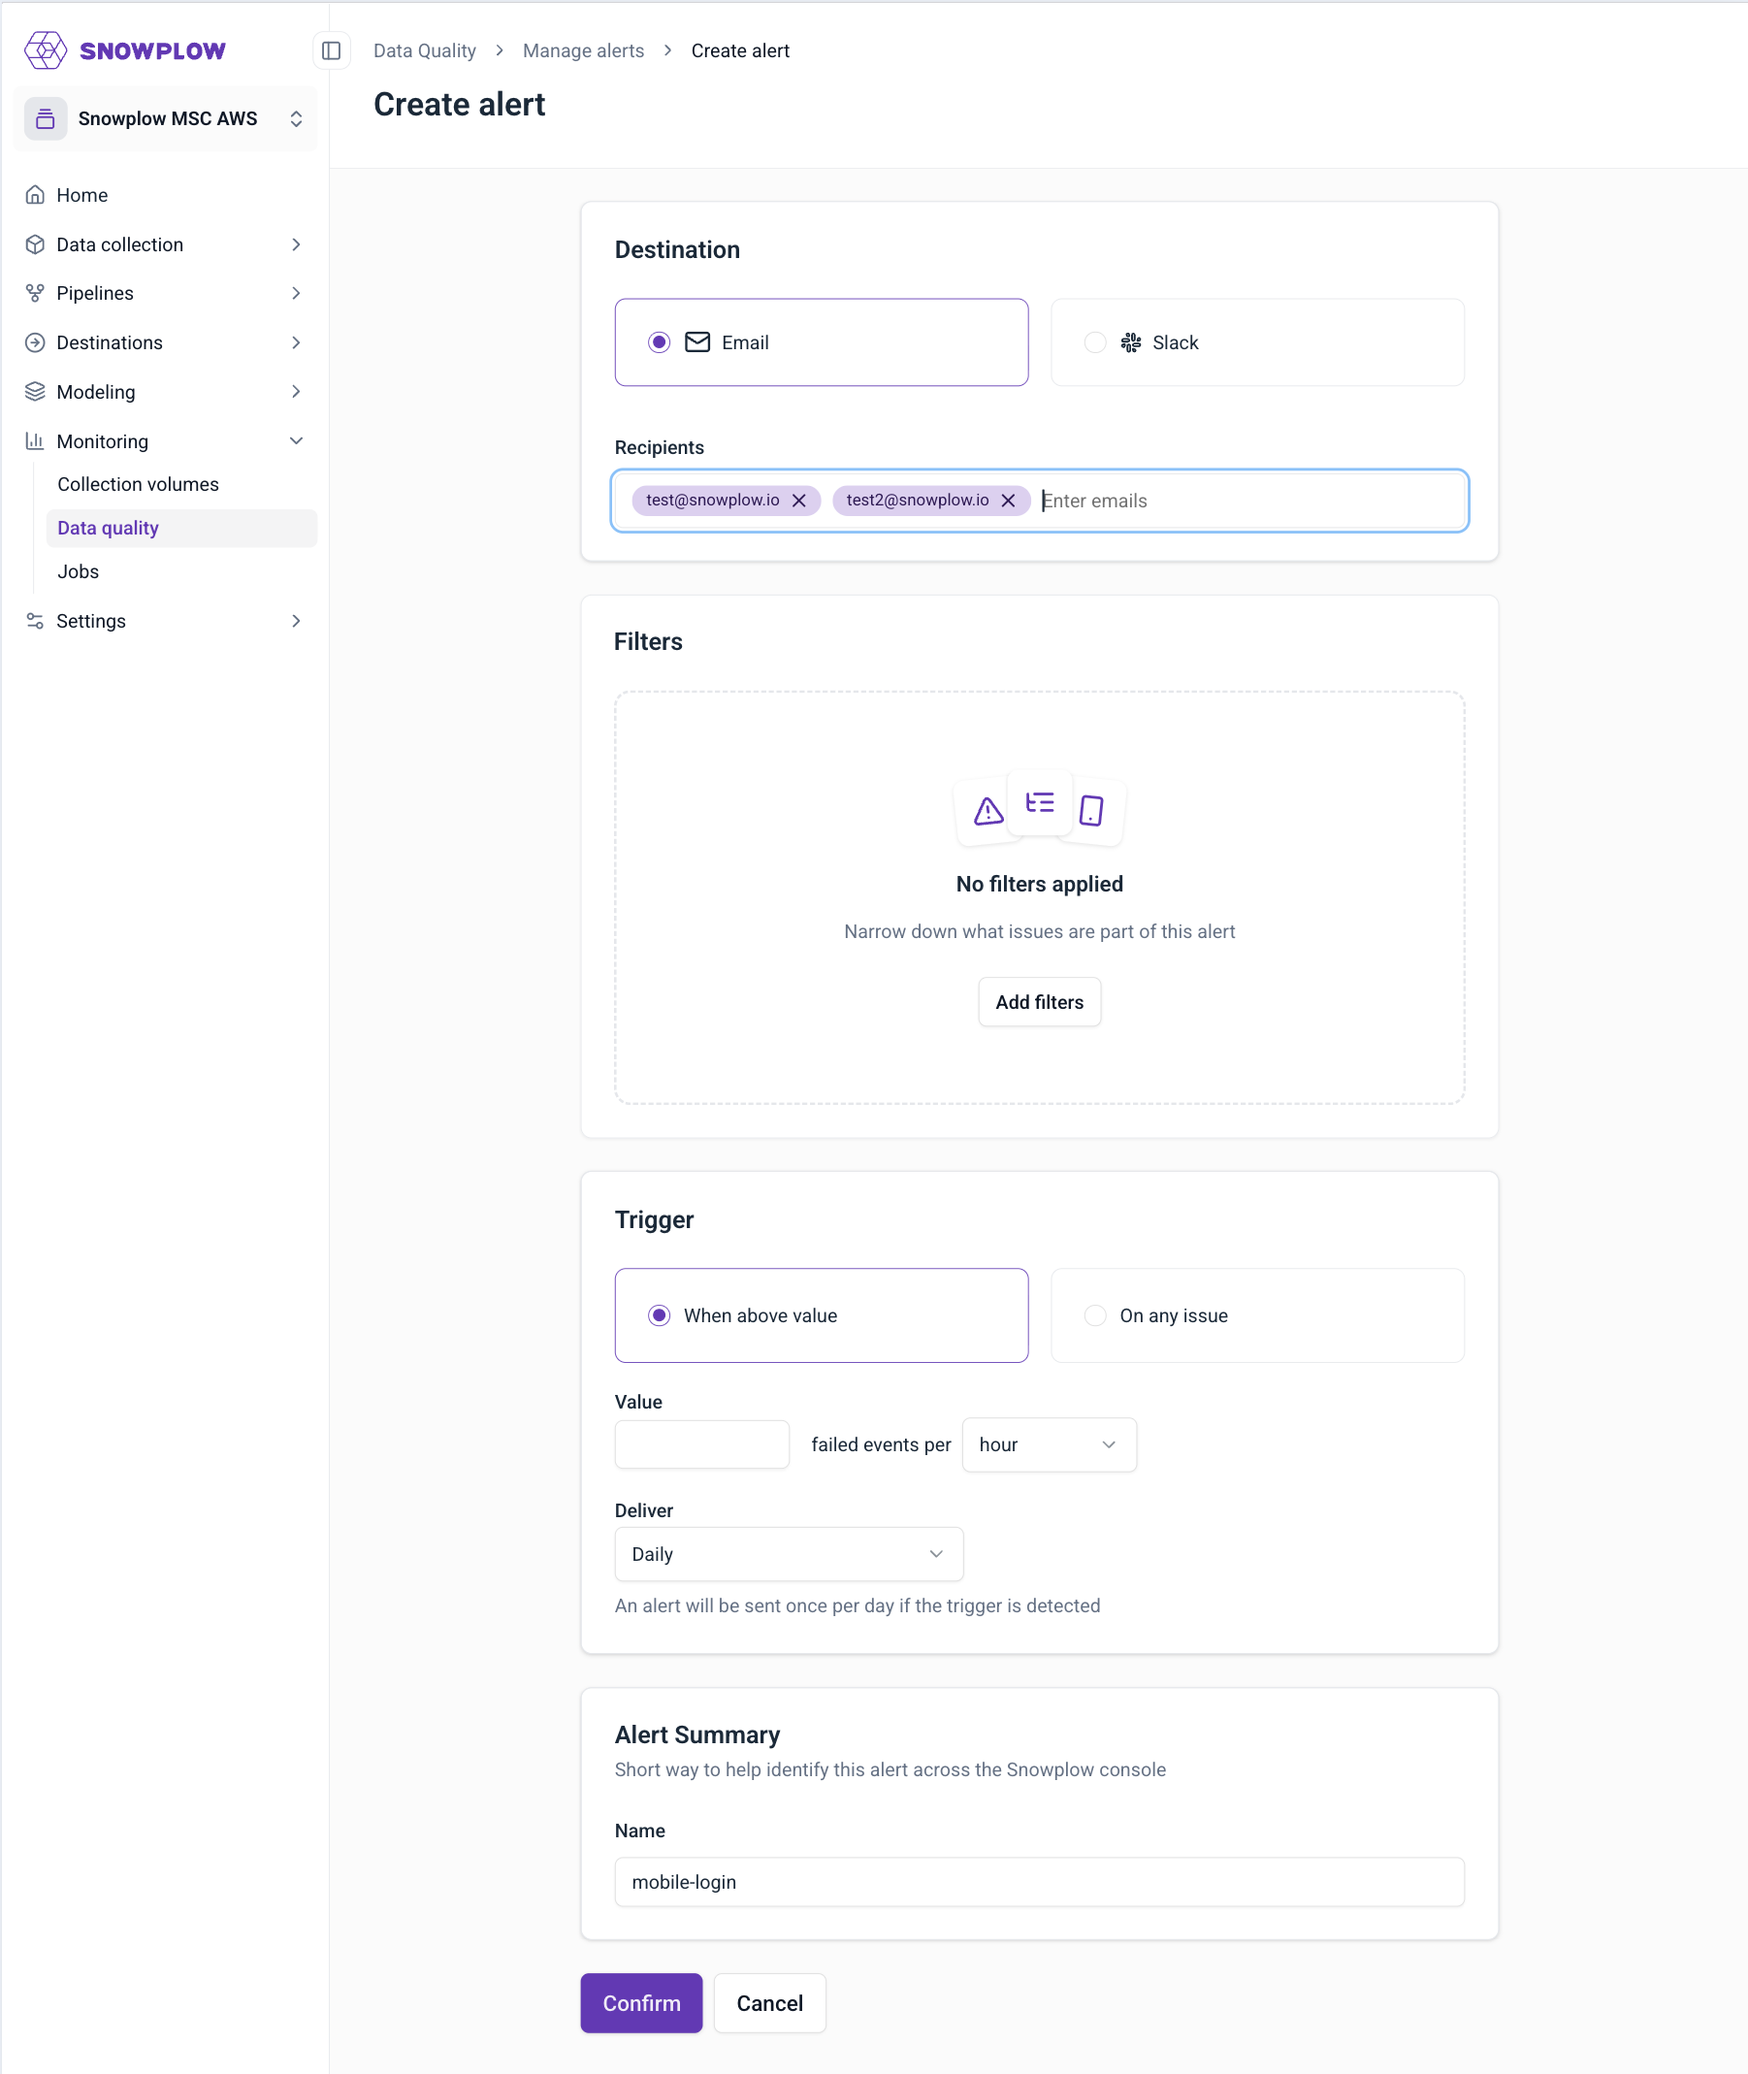
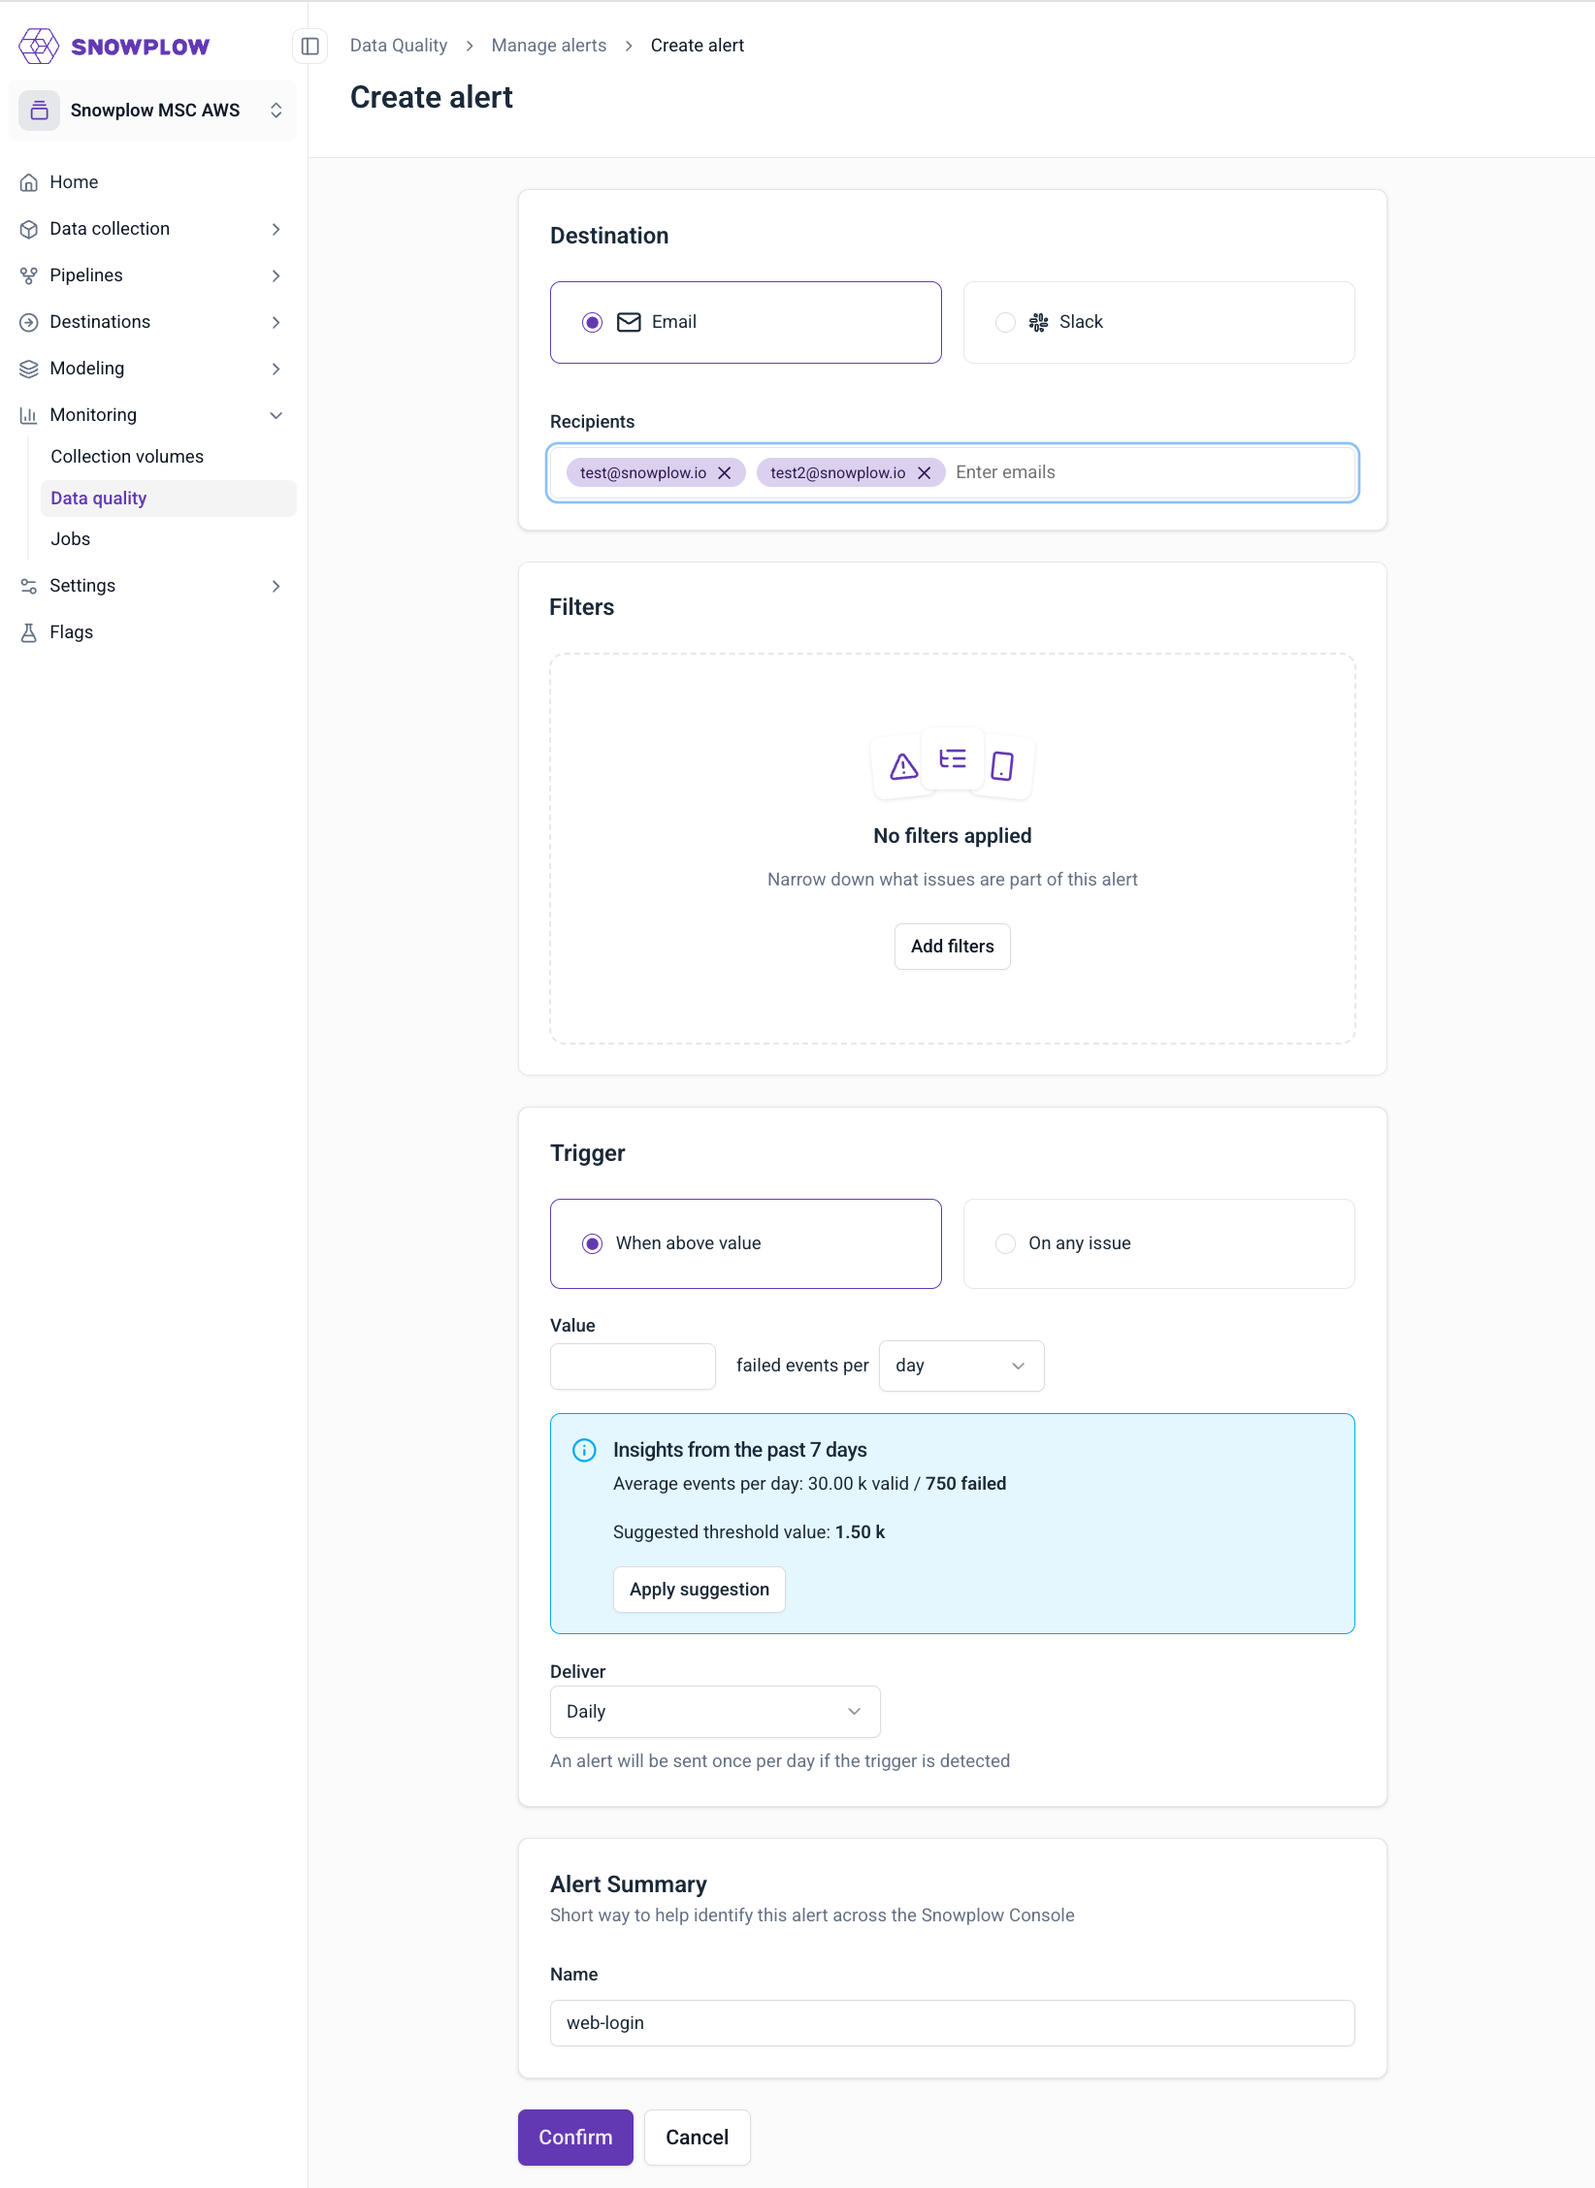
Update to include suggested threshold value

diff --git a/docs/data-product-studio/data-quality/failed-events/monitoring-failed-events/alerts/failed-event-alerts/creating-alerts/index.md b/docs/data-product-studio/data-quality/failed-events/monitoring-failed-events/alerts/failed-event-alerts/creating-alerts/index.md
@@ -92,6 +92,16 @@ When using "When above value" trigger:
 
 ![Value threshold configuration with insights panel](images/data_quality_absolute_threshold.png)
 
+#### Insights from historical data
+
+When configuring a threshold alert, an insights panel appears showing data from the past 7 days to help you set appropriate thresholds:
+
+- **Average events for the selected time period**: Shows the average number of valid and failed events
+- **Suggested threshold value**: Provides a recommended threshold
+- **Apply suggestion**: Click to automatically populate the threshold value field with the suggested value
+
+This helps you set realistic thresholds based on your actual event patterns.
+
 An alert will be sent once per the selected delivery frequency if the trigger condition is met.
 
 ## Complete setup
